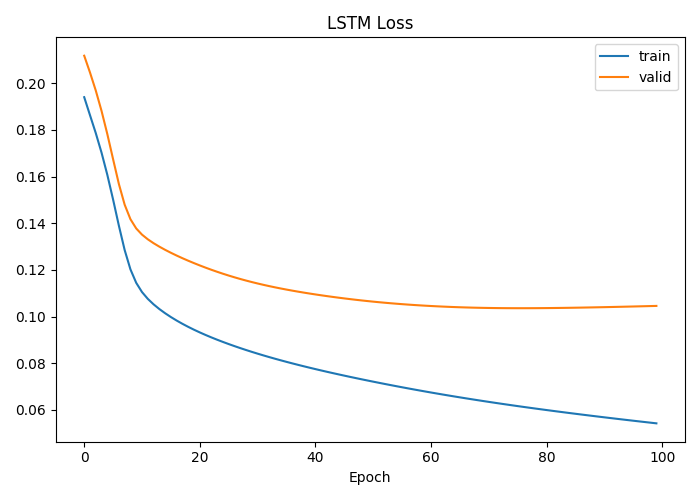
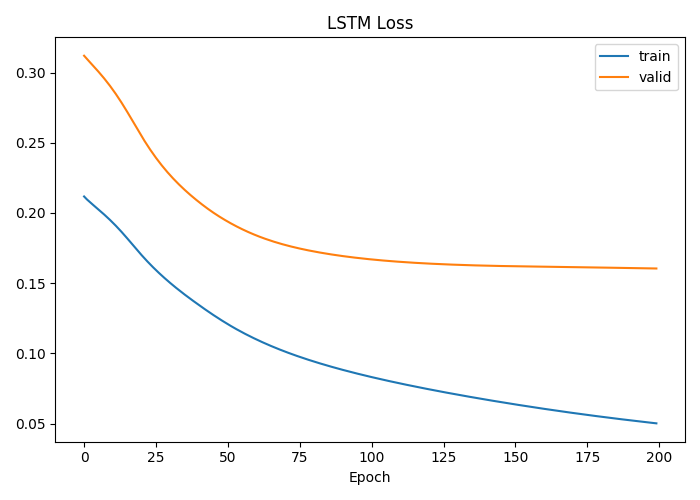
spike+itpc to LSTM

diff --git a/Python_code/Pytorch/ITPC/ITPC_LSTM.py b/Python_code/Pytorch/ITPC/ITPC_LSTM.py
@@ -25,20 +25,20 @@ from sklearn.metrics import mean_squared_error, r2_score
 
 # My module
 import sys
-sys.path.append("..") # Adds higher directory to python modules path.
+sys.path.append("../..") # Adds higher directory to python modules path.
 import data_processing.parameters as my_parameters
 import data_processing.load_mat_file as load_mat_file
+
 
 my_parameters=my_parameters.my_parameters()
 mat_file_processing=load_mat_file.mat_file_processing()
 
-file_name_1='../../Dataset/Sorted_Spike_Dataset/indy_20161007_02.mat'
-file_name_2='../../Dataset/Sorted_Spike_Dataset/indy_20160411_01.mat'
-file_name_3='../../Dataset/Sorted_Spike_Dataset/indy_20160411_02.mat'
-file_name_4='../../Dataset/Sorted_Spike_Dataset/indy_20160418_01.mat'
-file_name_5='../../Dataset/Sorted_Spike_Dataset/indy_20160419_01.mat'
-file_name_6='../../Dataset/Sorted_Spike_Dataset/indy_20160420_01.mat'
-file_list=[file_name_1, file_name_2, file_name_3, file_name_4, file_name_5, file_name_6]
+file_name_1='../../../Dataset/Sorted_Spike_Dataset/indy_20161007_02.mat'
+file_list=[file_name_1]
+file_itpc_abs_1='./250Hz/ITPC_abs_250Hz.csv'
+file_itpc_angle_1='./250Hz/ITPC_angle_250Hz.csv'
+file_itpc_time_stamp_1='./250Hz/nwb_timestamp_to_mat_timestamp.csv'
+
 tStart=time.time()
 time_stamp_64ms=[]
 ###################################### Auto-assigned parameters
@@ -56,6 +56,7 @@ time_lag=my_parameters.time_lag
 order=my_parameters.order
 with_sorted_spikes=my_parameters.with_sorted_spikes
 include_hash_unit=my_parameters.include_hash_unit
+
 
 # Must know these two numbers beforehand
 channel_numbers_in_this_dataset=96
@@ -97,6 +98,28 @@ y_acceleration_label_testing= np.empty([0])
 
 z_acceleration_label_training= np.empty([0])
 z_acceleration_label_testing= np.empty([0])
+
+
+# ITPC read file
+iptc_abs=pd.read_csv(file_itpc_abs_1, dtype=float)
+iptc_angle=pd.read_csv(file_itpc_angle_1, dtype=float)
+itpc_time_stamp=pd.read_csv(file_itpc_time_stamp_1, dtype=float)
+
+iptc_abs=np.array(iptc_abs)
+iptc_angle=np.array(iptc_angle)
+itpc_time_stamp=np.array(itpc_time_stamp)
+
+iptc_abs=iptc_abs[::16]
+iptc_angle=iptc_angle[::16]
+itpc_time_stamp=itpc_time_stamp[::16]
+
+print(iptc_abs.shape, ' ', iptc_abs.shape, ' ', itpc_time_stamp.shape)
+
+iptc_abs_traing=iptc_abs[:6142,:] # TODO
+iptc_abs_testing=iptc_abs[6142:,:]
+
+iptc_angle_traing=iptc_angle[:6142,:]
+iptc_angle_testing=iptc_angle[6142:,:]
 
 # cross sessions control start
 for session_index in range(file_numbers):
@@ -202,7 +225,6 @@ for session_index in range(file_numbers):
 
 # cross sessions control end
 
-
 # Write featrue and label to csv files
 CWD = os.getcwd()
 if 'LSTM' not in CWD:
@@ -227,6 +249,9 @@ df.to_csv(os.path.join(csv_path, 'testset_feature_matrix.csv'), index=False)
 df=pd.DataFrame(x_velocity_label_testing)
 df.to_csv(os.path.join(csv_path,'x_velocity_label_testing.csv'), index=False)
 
+
+
+
 class AbstractDataset(Dataset):
     def __init__(self, feature_matrix, label_matrix):
         self.data=feature_matrix
@@ -244,7 +269,6 @@ class AbstractDataset(Dataset):
         print('\ncollate_fn！')
         print('\ndatas: ', datas)
         # return self.data, self.label
-
 
 # read from csv file
 training_x=pd.read_csv(os.path.join(csv_path, 'trainset_feature_matrix.csv'), dtype=float)
@@ -265,6 +289,43 @@ testing_y = torch.from_numpy(testing_y.values)
 testing_x=testing_x.float()
 testing_y=testing_y.float()
 
+# IPTC to torch
+training_itpc_abs=torch.from_numpy(iptc_abs_traing)
+training_itpc_angle=torch.from_numpy(iptc_angle_traing)
+
+training_itpc_abs=training_itpc_abs.float()
+training_itpc_angle=training_itpc_angle.float()
+
+training_itpc=np.concatenate((training_itpc_abs, training_itpc_angle), axis=1)
+
+training_itpc=torch.from_numpy(training_itpc)
+
+testing_itpc_abs=torch.from_numpy(iptc_abs_testing)
+testing_itpc_angle=torch.from_numpy(iptc_angle_testing)
+
+testing_itpc_abs=testing_itpc_abs.float()
+testing_itpc_angle=testing_itpc_angle.float()
+
+testing_itpc=np.concatenate((testing_itpc_abs, testing_itpc_angle), axis=1)
+testing_itpc=torch.from_numpy(testing_itpc)
+
+print(training_itpc_abs.size(), ' ',training_x.size() )
+print(testing_itpc_abs.size(), ' ',testing_x.size() )
+length_difference=testing_x.size()[0]-testing_itpc_abs.size()[0]
+print(length_difference)
+print(testing_itpc_abs.size(), ' ',testing_x[:-length_difference,:].size() )
+
+testing_x=testing_x[:-length_difference,:]
+testing_y=testing_y[:-length_difference,:]
+
+print(testing_itpc_abs.size(), ' ', testing_y.size())
+
+
+new_training_x=torch.cat((training_x,training_itpc ) , 1)
+print('new_training_x= ', new_training_x.size())
+
+new_testing_x=torch.cat((testing_x, testing_itpc), 1)
+
 # Neural Network
 batch_size = 16
 learning_rate=1e-3
@@ -279,19 +340,11 @@ output_dim=1
 num_epochs = n_iters / ( (training_x.shape[0]) // batch_size )
 num_epochs = int(num_epochs)
 
-training_dataset=AbstractDataset(training_x,training_y)
-testing_dataset=AbstractDataset(testing_x, testing_y)
-
-# TODO collate_fn
-# train_loader = torch.utils.data.DataLoader(dataset=training_dataset, batch_size=batch_size, shuffle=False, collate_fn=training_dataset.collate_fn)
-# train_loader = torch.utils.data.DataLoader(dataset=training_dataset, batch_size=batch_size, shuffle=False)
-# test_loader=torch.utils.data.DataLoader(dataset=testing_dataset, batch_size=batch_size, shuffle=False)
+training_dataset=AbstractDataset(new_training_x, training_y)
+testing_dataset=AbstractDataset(new_testing_x, testing_y)
 
 device = torch.device('cuda' if torch.cuda.is_available() else 'cpu')
 
-# All models fit and predict, show R2 score
-
-# this is one way to define a network
 class LSTMModel(torch.nn.Module):
     def __init__(self, input_dim, hidden_dim, layer_dim, output_dim):
         super(LSTMModel, self).__init__()
@@ -340,7 +393,7 @@ class LSTMModel(torch.nn.Module):
 
         return out
 
-net = LSTMModel(input_dim=training_x.shape[1], hidden_dim=hidden_dim, layer_dim=layer_dim, output_dim=output_dim)     # define the network
+net = LSTMModel(input_dim=new_training_x.shape[1], hidden_dim=hidden_dim, layer_dim=layer_dim, output_dim=output_dim)     # define the network
 # print(net)  # net architecture
 optimizer = torch.optim.SGD(net.parameters(), lr=learning_rate)
 loss_func = torch.nn.MSELoss()  # this is for regression mean squared loss
@@ -495,51 +548,13 @@ for i, (x, testing_y) in trange:
 
 print('\n* model_x_velocity score in order ', order_index, ': ', r2_score( real_y_all, my_prediction))
 
-'''
-# train the network
-iter = 0
-for epoch in range(num_epochs):
-    for i, (x, y) in enumerate(train_loader):
-        prediction = net( x.to(device) ) # do not flatten     # input x and predict based on x
-        #print('size of prediction= ', prediction.shape, ' size of y= ',y.shape,'\n')
-
-        loss = loss_func(prediction, y.to(device))     # must be (1. nn output, 2. target)
-
-        optimizer.zero_grad()   # clear gradients for next train
-        loss.backward()         # backpropagation, compute gradients
-        optimizer.step()        # apply gradients
-
-        iter += 1
-
-        if iter % 1000 == 0:
-
-            my_prediction=[]
-            real_y_all=[]
-
-            for i, (testing_x, testing_y) in enumerate(test_loader):
-                prediction=net( testing_x.to(device) ).flatten()
-                real_y=testing_y.cpu().data.numpy()
-                # print('prediction=', prediction.cpu().data.numpy(),'\n')
-                for ele in prediction.cpu().data.numpy():
-                    my_prediction.append( ele )
-
-                for ele in real_y:
-                    real_y_all.append(ele)
-                # print('len of my_prediction=', len(my_prediction), '\n')
-
-            # predict from testing feature matrix
-
-            print('len of real_y_all = ', len(real_y_all), '\n len of my_prediction = ', len(my_prediction), '\n')
-            print('\n* model_x_velocity score in order ', order_index, ': ', r2_score( real_y_all, my_prediction))
-'''
-
 
 x_velocity_predict=my_prediction
 plot.figure(figsize=(15,5))
-plot.plot(time_stamp_64ms[testing_data_index:-1], x_velocity_predict, 'b--',label='Prediction' )
+plot.plot(time_stamp_64ms[testing_data_index:-1-length_difference], x_velocity_predict, 'b--',label='Prediction' )
 plot.plot(time_stamp_64ms[testing_data_index:-2], x_velocity_label[testing_data_index:-1], 'r--', label='True value')
 plot.legend(loc='upper right')
-plot.title('LSTM Model: velocity x prediction and ground truth (Spike Only')
+plot.title('LSTM Model: velocity x prediction and ground truth (Spike+ITPC)')
 plot.xlabel('time (second)')
 plot.ylabel('x velocity')
 axes = plot.gca()

diff --git a/Python_code/data_processing/load_mat_file.py b/Python_code/data_processing/load_mat_file.py
@@ -25,7 +25,7 @@ class mat_file_processing():
             
 
             print('spikes shape: ', spikes.shape) #  (3, 192) in indy_20160407_02
-            channel_number=int(spikes.shape[1] / 2) # 96 in indy_20160407_02
+            channel_number=96 # 96 in indy_20160407_02
             numpy_finger_pos_1=np.empty([])
             numpy_finger_pos_GET_1=mat_file.get('finger_pos')
             numpy_finger_pos_1=np.array(numpy_finger_pos_GET_1)
